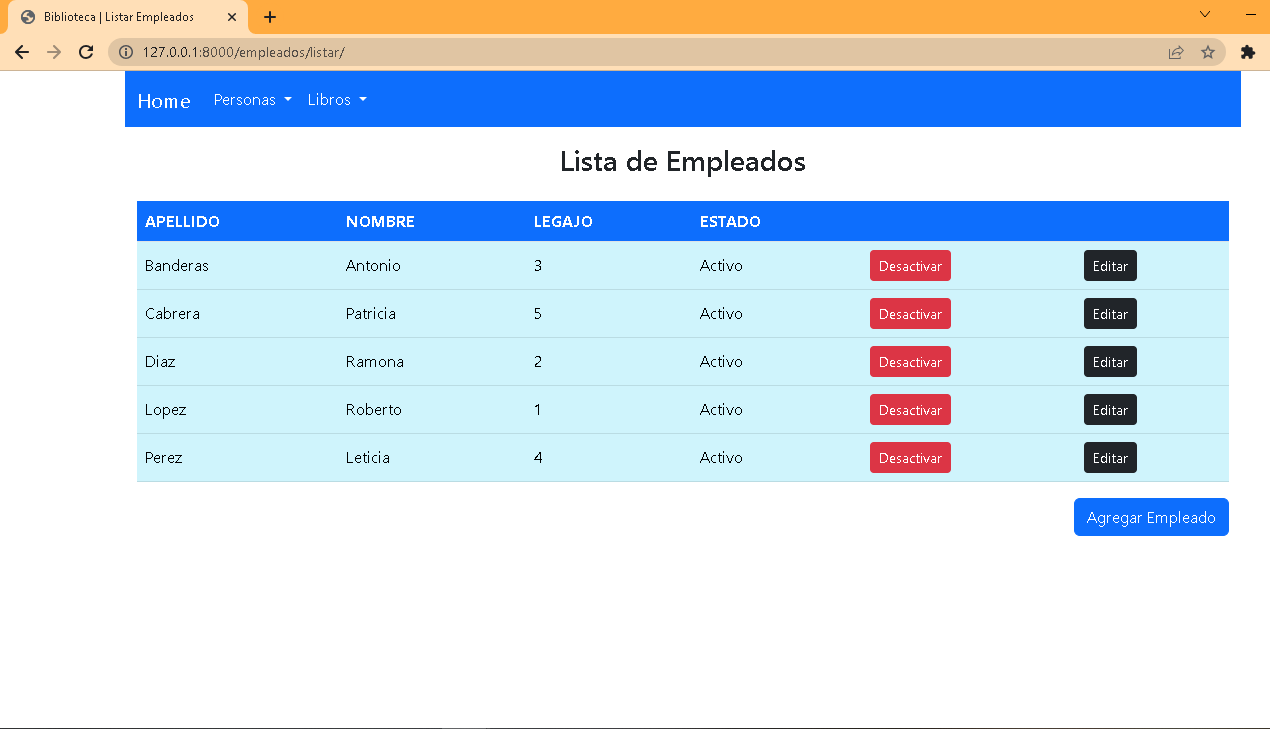
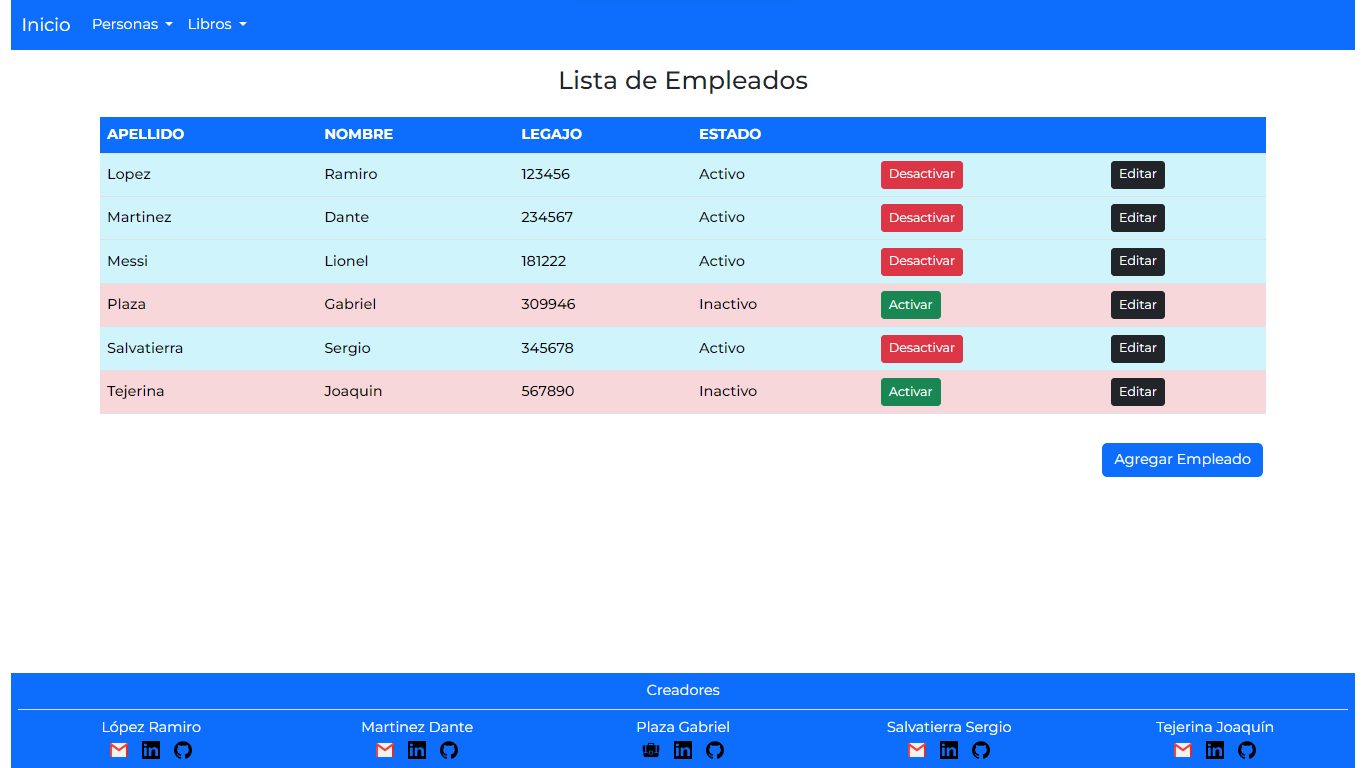
FIX: Se modifica color del home

diff --git a/src/static/estilos/estilos.css b/src/static/estilos/estilos.css
@@ -1,10 +1,69 @@
-a {
-    text-decoration: none;
+:root {
+    /*COLOR PRIMARIO (navbar, footer, color hover cards, encabezados tablas, botones Agregar, Volver, Guardar*/
+    --color-primario:#087e8d ; /*rgb(99, 3, 78)*/
+    /*COLOR SECUNDARIO (fondo inicio, fondo formularios*/
+    --color-secundario:#e7f5a8 ; /* rgb(39, 235, 98)*/
+    /*Color texto*/
+    --color-texto: white;
+    --color-texto-hover: white;
+    /*COLORES TABLA LISTA*/
+    --color-fondo-celda-activa: #CFF4FC;
+    --color-fondo-celda-inactiva: #f8d7da;
+    --color-texto-tabla: black;
+    /*Color del hover de los botones Agregar, Volver, Guardar)*/
+    --color-boton-hover: rgb(10, 106, 109); /*grey*/
 }
 
+/*MANEJO DE COLORES*/
+.color-primario{
+    background-color: var(--color-primario);
+}
+.color-secundario{
+    background-color: var(--color-secundario);
+}
+.color-texto{
+    color: var(--color-texto)
+}
+/*Formularios*/
+.bordes-color{
+    border: 4px solid var(--color-primario) ;
+}
+/*Tabla*/
+.celda-activa{
+    background-color: var(--color-fondo-celda-activa);
+}
+.celda-inactiva{
+    background-color: var(--color-fondo-celda-inactiva);
+}
+.texto-tabla{
+    color: var(--color-texto-tabla);
+    font-weight: 500;
+}
+/*Botones*/
+.boton-primario{
+    background-color: var(--color-primario);
+    border: 1px solid dark;
+    color: var(--color-texto);
+}
+.boton-primario:hover{
+    background-color: var(--color-boton-hover);
+    border: 1px solid var(--color-primario);
+    color: var(--color-texto-hover);
+}
+/*Fondo de las cards inicio*/
 .fondo:hover {
-    background: #0d6efd;
-    color: white;
+    background: var(--color-primario);
+    color: var(--color-texto-hover);
+}
+/*FIN MANEJO DE COLORES*/
+
+
+body {
+    font-family: 'Montserrat', sans-serif;
+}
+
+a {
+    text-decoration: none;
 }
 
 .icono {
@@ -19,19 +78,15 @@ a {
 }
 
 .principal{
-    min-height: 90vh;
     position: relative;
-    
-}
-
-.content{
-    padding-bottom: 60px;
+    padding-bottom: 20px;
+    min-height: 90vh;
 }
 
 .footer{
     position: absolute;
     bottom: 0;
-    height: 60px;
+    height: 20px;
     left: 0;
     right: 0;
 }
@@ -40,10 +95,31 @@ a {
     width: 50%;
 }
 
+.fondo{
+    max-width: 350px;
+}
+
+.card-img-top{
+    height:200px;
+}
+
+.tarjeta{
+    max-width: 300px;
+    margin: 20px;
+    padding: 0;
+}
+
 @media(max-width: 992px) {
     .control-ancho {
         width: 100%;
     }
+    .fondo img{
+        display: none;
+    }
+    .principal{
+        min-height: auto;
+    }
+
 }
 
 
